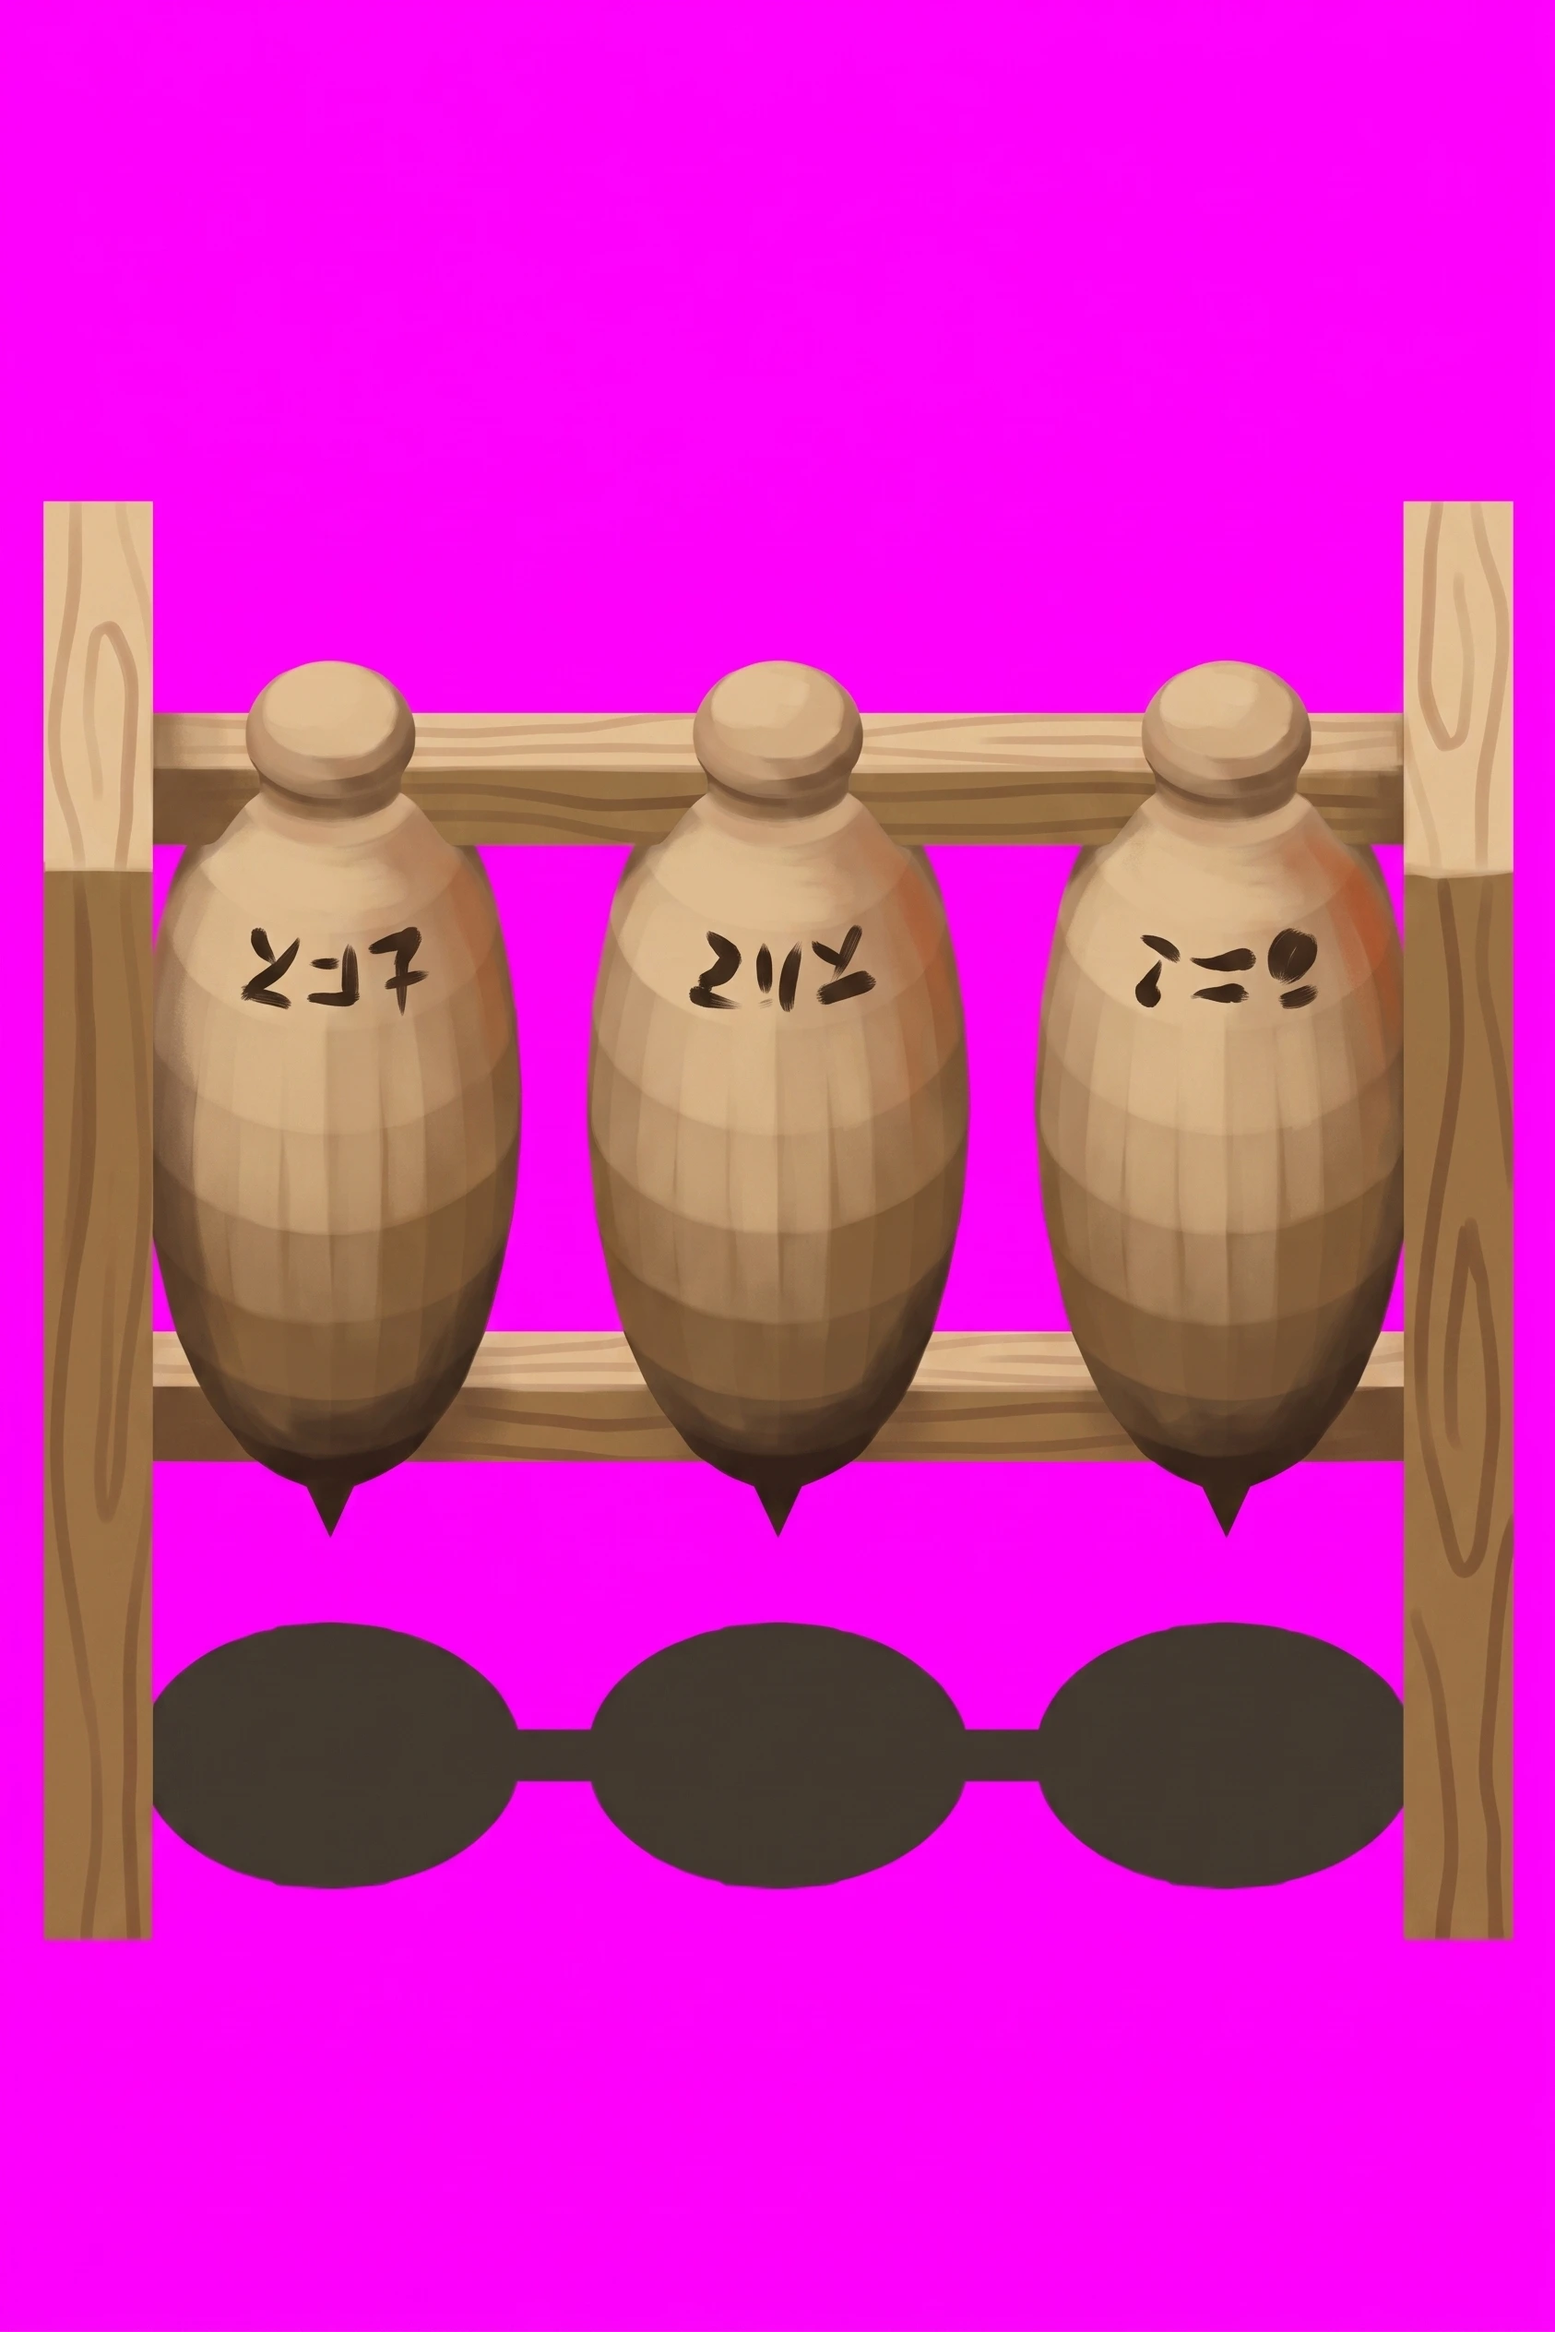
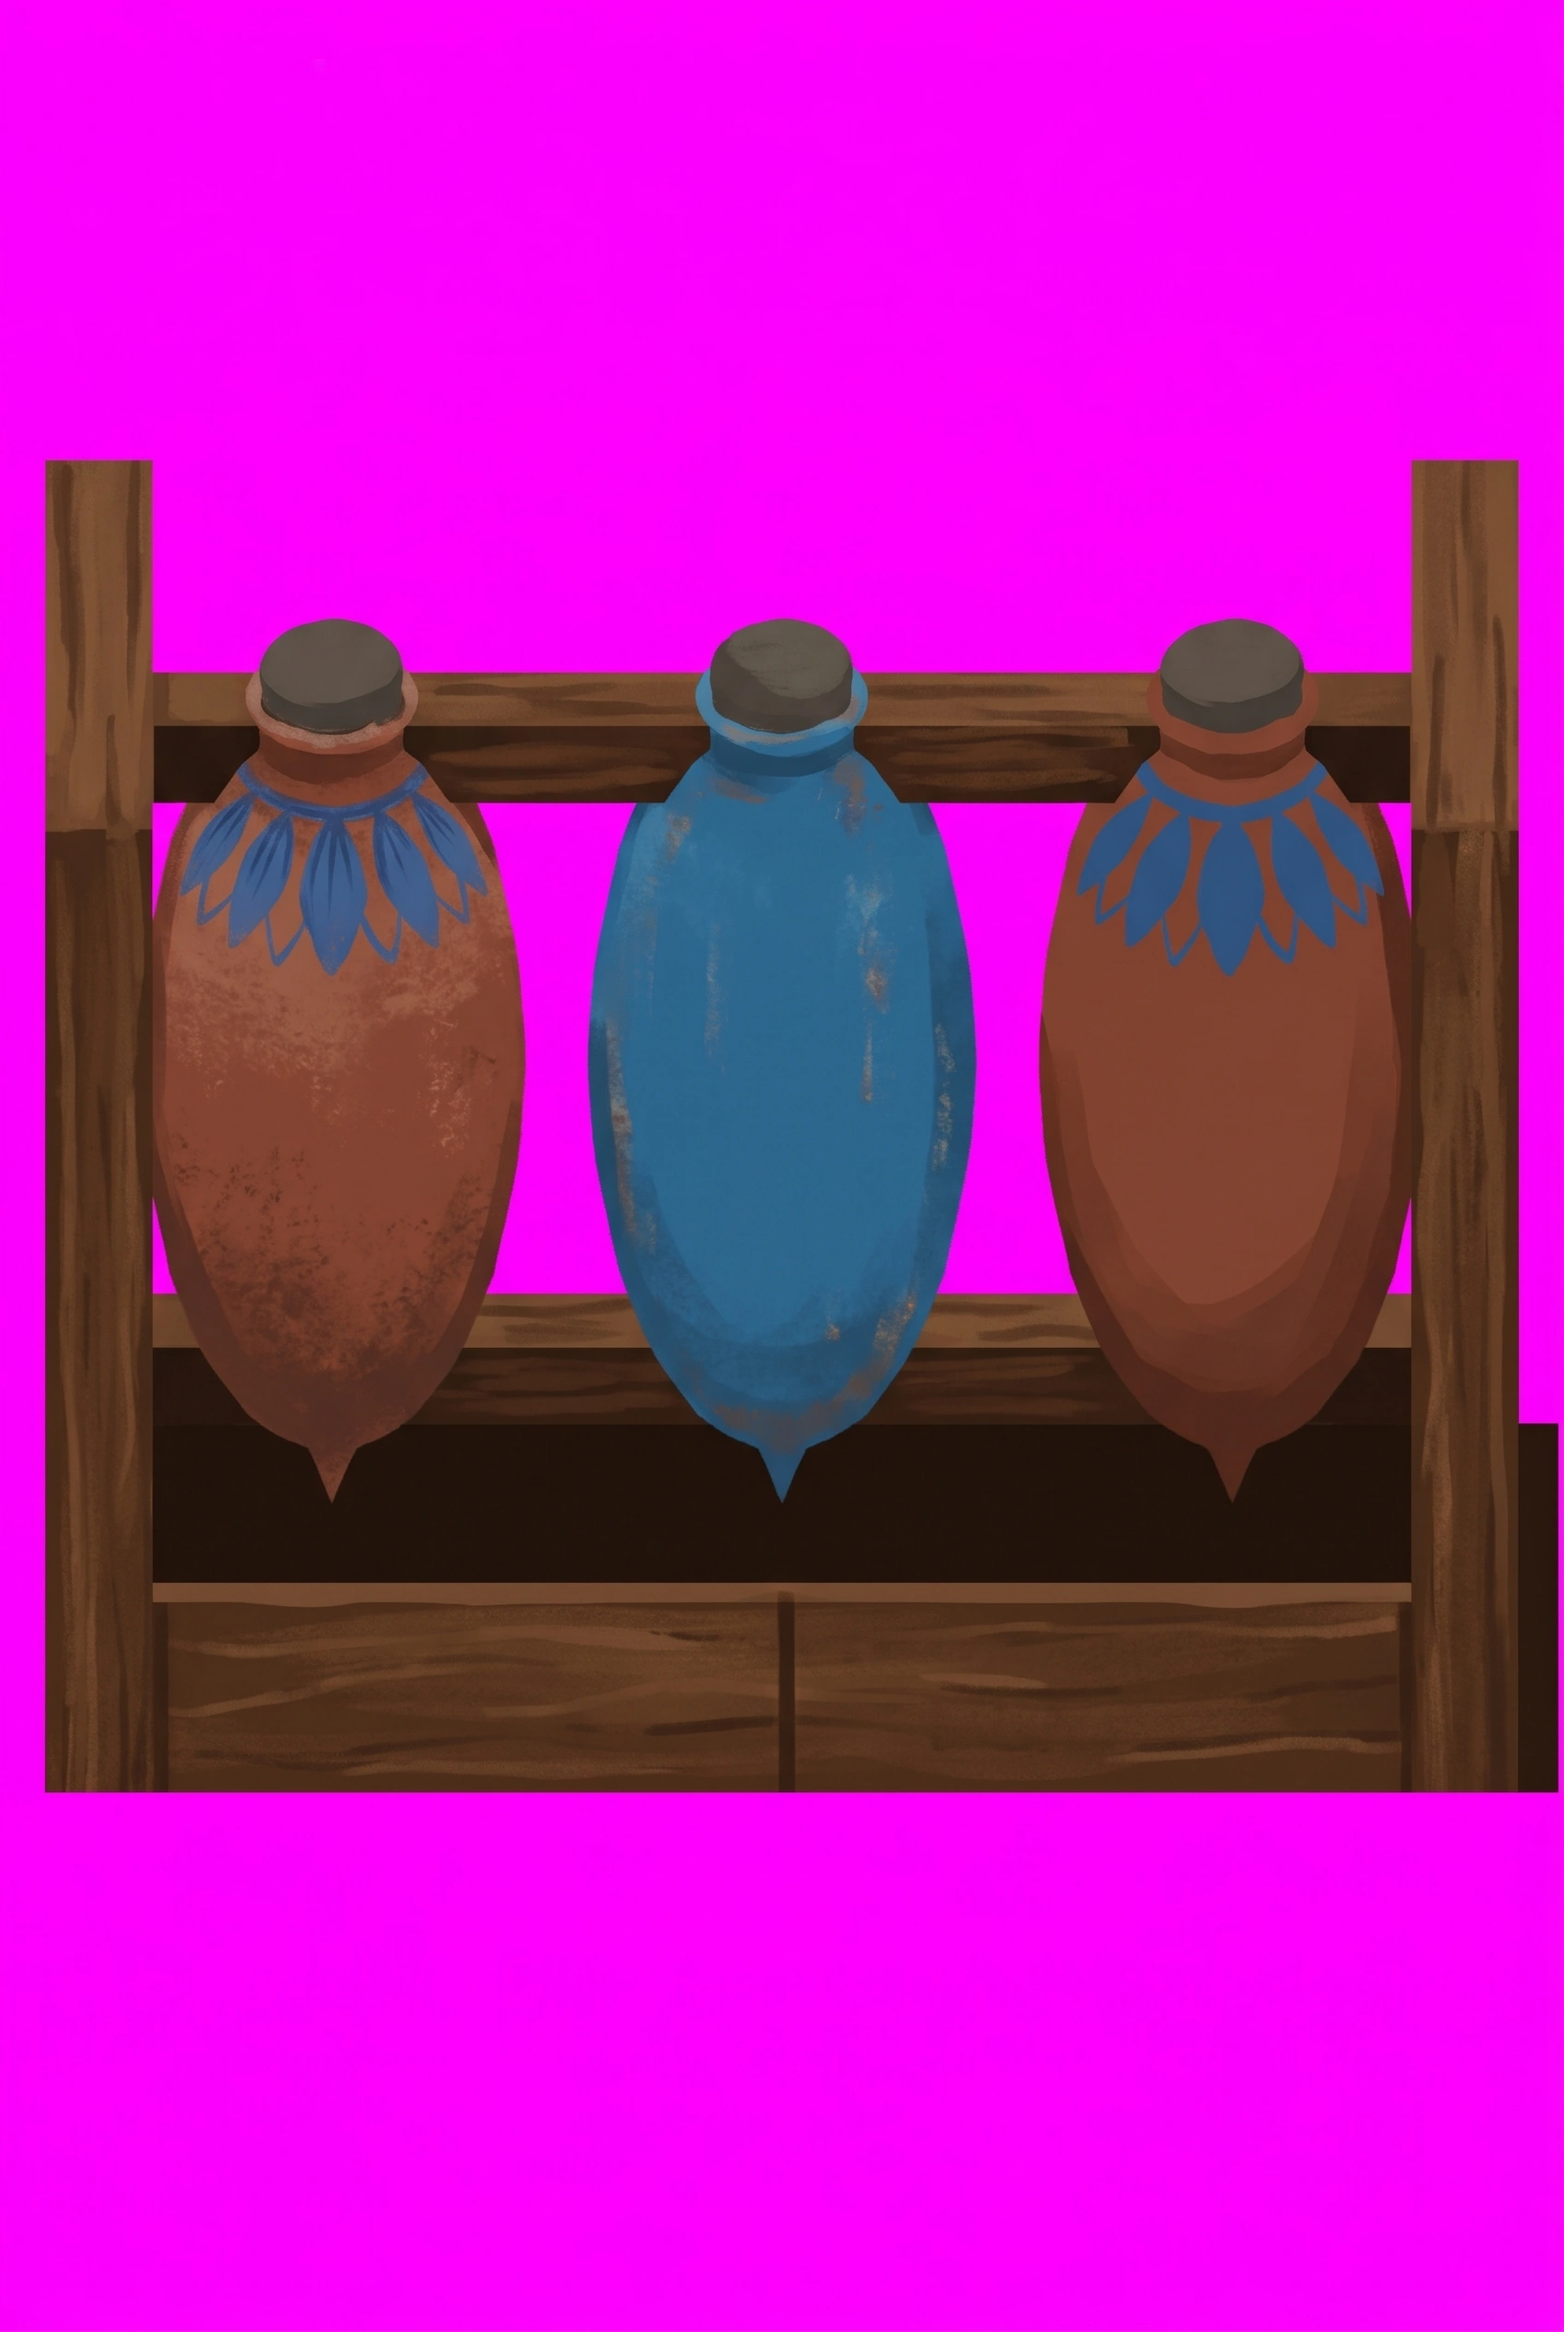
art: junior jar rack
Claude-Session: https://claude.ai/code/session_01F6g2diRzQCzQwEf9zsEEGH

diff --git a/docs/instructions/repaint-queue.md b/docs/instructions/repaint-queue.md
@@ -483,7 +483,7 @@ Even lighting left to right, no hotspot, no vignette.
 
 ---
 
-## Nobleman — twenty-three
+## Nobleman — twenty-two
 
 The nobleman's existing props, repainted for the rank's new light orange floor. Each is its own thing
 first: cedar is cedar, linen is linen, pottery is pottery, painted in red ochre, Egyptian blue and leaf
@@ -506,37 +506,6 @@ The last nine are the house's own kinds, new with its activities ([themed-rooms.
 § Junior): each has a primitive of its own in `renderProp.py` and a guarded block in `art/rebuild.sh`. The
 banquet table and the bed are two cells across, so their frame is landscape three by two; the harp and the
 potted tree stand a cell taller, so theirs is portrait two by five.
-
-### `junior/jarRack` — a cedar rack of painted pottery jars
-
-**Re-roll:** the rank's palette moved (2026-11-03, `Topology/Palette moodboard`). Repainted against the new light orange floor, in its own material's colours; copper only as a trim.
-
-**Attach:**
-
-1. `~/tile-previews/jarrack-junior.png` — the scaffold
-2. `~/tile-previews/junior-plain.png` — the material reference
-
-```
-A wall-less product shot of a single object, painted in flat matte gouache, no background, on pure magenta #FF00FF. Portrait, two units wide by three tall, exactly as the reference. Do not re-compose it into a square. Paint over the reference image itself.
-
-The object: a JAR RACK. The frame is the RACK; the vessels standing in it are JARS.
-
-The rack is dark oiled cedar #6b4226, #4a2c1a in shade. The jars are red-brown fired pottery #8c4a36,
-#6a3828 in shade, each with a painted collar of blue lotus petals #2a5a9a, one glazed Egyptian blue all
-over; their mud stoppers are dark grey #5a5048.
-
-Keep every edge, every proportion and every silhouette exactly as in the reference image — do not move, resize, straighten, add, remove or restyle any part of it, and do not change the angle it stands at. Paint only material and wear.
-
-No highlights, no gloss, no rim light, no ground plane, no reflections. Matte throughout, evenly lit, crisp and clean. Nobleman's house: orange sandstone, painted plaster, cedar, linen, reed and pottery, each in its OWN colours so it reads at a glance as what it is. Copper is an accent only — a rim, a band, a hasp, gone verdigris green at the edges — never a tint over the whole object.
-```
-
-Then, once the return is in `~/Downloads`:
-
-```sh
-scaffold jarrack --colour=#6b4226 --floor=#e2a86f
-yarn import-tile art/masters/props/junior/jarRack.webp --tier=junior --name=jarRack --slot=prop \
-  --filter=smooth --mask="$OBJ" --seat="$SHADOW"
-```
 
 ### `junior/rubbleSpill` — a fan of plaster grit and painted flakes
 
